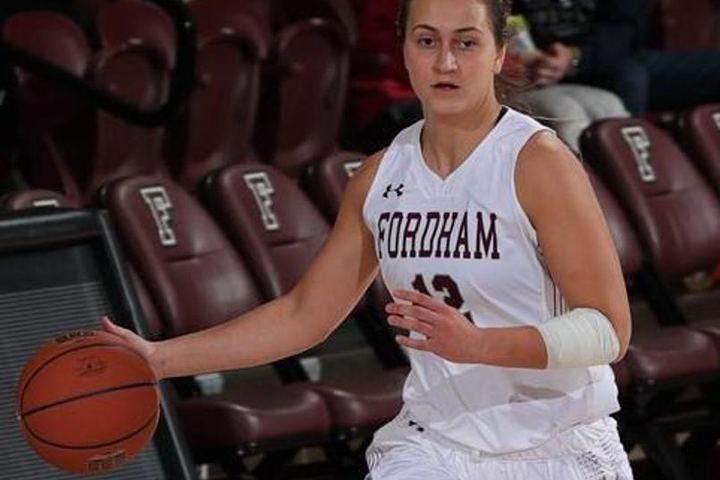
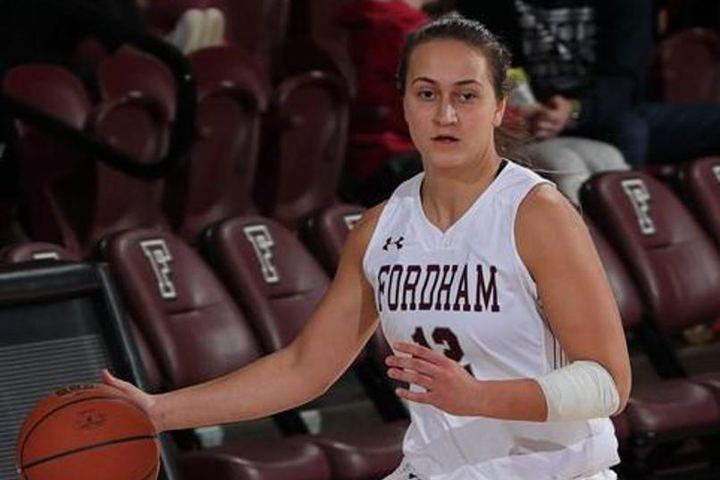
Act on Dan's critique: crops, pills, band joins, one basketball header
Six items, all from looking at the pages rather than the metrics.

Five clipped photographs re-cut. The four scholarship recipients and Edona all
came from square or portrait originals forced into a 720x480 landscape card,
which throws away half the height, so no crop bias could hold a head and a body.
The recipients are now 4:5 and capped at 420px so they sit beside the text
instead of dominating it.

Edona took two attempts and the first made it worse. Impact's story cards carry
an inline aspect-ratio:3/2, which beats any stylesheet rule, so pointing her at a
4:5 file left a landscape frame centre-cropping a standing figure and losing her
head entirely. Her three neighbours are 3:2, so a portrait would leave one odd
column. Sylwia is the control: same portrait source, same frame, renders
correctly, and the only difference was crop bias. Edona moves from 0.20 to 0.08
and now matches her.

The tutoring blue-to-white cutoff was the navy tutor panel still being a rounded
card butting against a full-bleed band. It becomes a band, so pale blue runs
straight into navy edge to edge. The gap beneath it is 136px rather than the
site's usual 88: coming off a solid band, 88 reads as a collision.

All six eyebrow pills removed, words included. Four repeated the logo already in
the header. Sponsorship and Donate lose a line of context each, which Dan
confirmed after seeing what went.

Our Impact had two basketball headers back to back, both with the eyebrow "Peace
[…]

diff --git a/tutoring.html b/tutoring.html
@@ -101,7 +101,9 @@ h1,h2,h3,p{margin:0}
 .tl-step:last-child .tl-label{padding-bottom:0}
 
 /* safety panel, navy object */
-.safety{background:var(--navy);border-radius:16px;padding:48px;display:flex;flex-direction:column;gap:24px}
+.nightband{background:var(--navy);color:var(--white);margin-bottom:136px}
+.nightband-in{width:100%;max-width:var(--maxw);margin:0 auto;padding:clamp(64px,8vw,104px) var(--pad)}
+.safety{display:flex;flex-direction:column;gap:24px}
 .safety .h2{color:var(--white)}
 .safety-body{font-size:18px;line-height:1.62;color:var(--white);max-width:74ch}
 .checklist{display:grid;grid-template-columns:repeat(4,minmax(0,1fr));gap:20px}
@@ -497,8 +499,8 @@ border:1px solid var(--line);border-radius:999px;padding:9px 15px}
 .p-chorus-scholarship-body{display:flex;flex-direction:column;gap:18px;font-size:clamp(.9375rem,1.4vw,1.05rem);line-height:1.68;max-width:65ch;text-wrap:pretty}
 .p-chorus-recipient-line{font-weight:700;color:var(--ink)}
 .p-chorus-recipient-set{display:grid;grid-template-columns:repeat(2,minmax(0,1fr));gap:24px;margin-top:12px;min-width:0}
-.p-chorus-recipient{min-width:0;max-width:720px;margin:0;background:transparent;border:0;border-radius:0;box-shadow:none}
-.p-chorus-recipient>.p-img{width:100%;height:auto;aspect-ratio:3/2;object-fit:cover;background:transparent;border:0;border-radius:0;box-shadow:none}
+.p-chorus-recipient{min-width:0;max-width:420px;margin:0;background:transparent;border:0;border-radius:0;box-shadow:none}
+.p-chorus-recipient>.p-img{width:100%;height:auto;aspect-ratio:4/5;object-fit:cover;background:transparent;border:0;border-radius:0;box-shadow:none}
 .p-chorus-recipient figcaption{display:flex;flex-direction:column;gap:4px;margin-top:14px;background:transparent;border:0;box-shadow:none;font-size:.75rem}
 .p-chorus-recipient figcaption strong{font-size:clamp(.9375rem,1.4vw,1.05rem);color:var(--ink)}
 .p-chorus-recipient figcaption span,.p-chorus-testimony figcaption,.p-chorus-recipient-quote-credit{font-size:.75rem;line-height:1.5;letter-spacing:.075em;text-transform:uppercase;color:var(--slate)}
@@ -629,8 +631,8 @@ border:1px solid var(--line);border-radius:999px;padding:9px 15px}
     </div>
   </section>
 
-  <section class="wrap section" id="tutors">
-    <div class="safety">
+  <section class="nightband" id="tutors">
+    <div class="nightband-in safety">
       <div class="p-accent">
       <div class="p-accent-copy">
       <h2 class="h2">Who will be working with my child</h2>
@@ -673,11 +675,11 @@ border:1px solid var(--line);border-radius:999px;padding:9px 15px}
         </div>
         <div class="p-chorus-recipient-set">
           <figure class="p-chorus-recipient">
-            <img class="p-img" src="img/p13-annabella-card.jpg" width="720" height="480" loading="lazy" decoding="async" alt="Annabella in a school uniform, speaking to camera">
+            <img class="p-img" src="img/p13-annabella-pair.jpg" width="640" height="800" loading="lazy" decoding="async" alt="Annabella in a school uniform, speaking to camera">
             <figcaption><strong>Annabella</strong><span>5th grade. Stamford Rotary Trust Scholarship, 2025.</span></figcaption>
           </figure>
           <figure class="p-chorus-recipient">
-            <img class="p-img" src="img/p83-mia-lopez-certificate-card.jpg" width="720" height="480" loading="lazy" decoding="async" alt="Mia holding her Stark Elementary School certificate and a bouquet of flowers">
+            <img class="p-img" src="img/p83-mia-lopez-certificate-pair.jpg" width="640" height="800" loading="lazy" decoding="async" alt="Mia holding her Stark Elementary School certificate and a bouquet of flowers">
             <figcaption><strong>Mia</strong><span>6th grade. Stamford Rotary Trust Scholarship, 2025.</span></figcaption>
           </figure>
         </div>
@@ -691,13 +693,13 @@ border:1px solid var(--line);border-radius:999px;padding:9px 15px}
         </div>
         <div class="p-chorus-recipient-set">
           <figure class="p-chorus-recipient">
-            <img class="p-img" src="img/p14-anthony-lopez-card.jpg" width="720" height="480" loading="lazy" decoding="async" alt="Anthony Lopez standing on rocks beside a waterfall">
+            <img class="p-img" src="img/p14-anthony-lopez-pair.jpg" width="640" height="800" loading="lazy" decoding="async" alt="Anthony Lopez standing on rocks beside a waterfall">
             <figcaption><strong>Anthony Lopez</strong><span>Bill Susetka Memorial Scholarship, 2025 to 2026.</span></figcaption>
             <blockquote class="p-chorus-recipient-quote">My name is Anthony Lopez and I’m 13 years old. I’m grateful for Beyond Limits because the sessions help me with tests, homework, and projects. I’m also grateful for my mom because she sacrifices her time to take me to Beyond Limits. Thank you</blockquote>
             <cite class="p-chorus-recipient-quote-credit">Anthony Lopez</cite>
           </figure>
           <figure class="p-chorus-recipient">
-            <img class="p-img" src="img/p31-danna-rivas-card.jpg" width="720" height="480" loading="lazy" decoding="async" alt="Danna Rivas seated, smiling at the camera">
+            <img class="p-img" src="img/p31-danna-rivas-pair.jpg" width="640" height="800" loading="lazy" decoding="async" alt="Danna Rivas seated, smiling at the camera">
             <figcaption><strong>Danna Rivas</strong><span>Bill Susetka Memorial Scholarship, 2025 to 2026.</span></figcaption>
             <blockquote class="p-chorus-recipient-quote">Hello, my name is Danna Rivas, and I like going to [Beyond Limits] because I like the tutors that I get, and it is fun learning there. And when I’m out of school, I like to do Gymnastics! Thank you!</blockquote>
             <cite class="p-chorus-recipient-quote-credit">Danna Rivas</cite>

diff --git a/impact.html b/impact.html
@@ -69,7 +69,6 @@ h1,h2,h3,p{margin:0}
 /* hero */
 .hero{display:grid;grid-template-columns:.86fr 1.14fr;gap:clamp(40px,5vw,72px);align-items:center;padding:72px var(--pad) 80px}
 .hero-copy{display:flex;flex-direction:column;gap:24px;min-width:0}
-.eyebrow-pill{display:inline-flex;align-items:center;height:32px;padding:0 16px;border-radius:999px;background:var(--white);border:1px solid var(--line);font-size:11px;font-weight:600;letter-spacing:.1em;text-transform:uppercase;color:var(--slate);width:fit-content}
 .sup{font-size:19px;line-height:1.55;color:var(--slate);max-width:44ch}
 .hero-photo{height:470px;overflow:hidden;background:transparent}
 .hero-photo img{width:100%;height:100%;object-fit:cover}
@@ -472,8 +471,8 @@ border:1px solid var(--line);border-radius:999px;padding:9px 15px}
 .p-chorus-scholarship-body{display:flex;flex-direction:column;gap:18px;font-size:clamp(.9375rem,1.4vw,1.05rem);line-height:1.68;max-width:65ch;text-wrap:pretty}
 .p-chorus-recipient-line{font-weight:700;color:var(--ink)}
 .p-chorus-recipient-set{display:grid;grid-template-columns:repeat(2,minmax(0,1fr));gap:24px;margin-top:12px;min-width:0}
-.p-chorus-recipient{min-width:0;max-width:720px;margin:0;background:transparent;border:0;border-radius:0;box-shadow:none}
-.p-chorus-recipient>.p-img{width:100%;height:auto;aspect-ratio:3/2;object-fit:cover;background:transparent;border:0;border-radius:0;box-shadow:none}
+.p-chorus-recipient{min-width:0;max-width:420px;margin:0;background:transparent;border:0;border-radius:0;box-shadow:none}
+.p-chorus-recipient>.p-img{width:100%;height:auto;aspect-ratio:4/5;object-fit:cover;background:transparent;border:0;border-radius:0;box-shadow:none}
 .p-chorus-recipient figcaption{display:flex;flex-direction:column;gap:4px;margin-top:14px;background:transparent;border:0;box-shadow:none;font-size:.75rem}
 .p-chorus-recipient figcaption strong{font-size:clamp(.9375rem,1.4vw,1.05rem);color:var(--ink)}
 .p-chorus-recipient figcaption span,.p-chorus-testimony figcaption,.p-chorus-recipient-quote-credit{font-size:.75rem;line-height:1.5;letter-spacing:.075em;text-transform:uppercase;color:var(--slate)}
@@ -575,7 +574,6 @@ border:1px solid var(--line);border-radius:999px;padding:9px 15px}
 
   <section class="wrap hero">
     <div class="hero-copy">
-      <span class="eyebrow-pill">Stamford Peace Youth Foundation</span>
       <h1 class="d1">Our Impact</h1>
       <p class="sup">Beyond Limits strikes at the heart of the opportunity gap which confronts our society’s lower-income families.</p>
     </div>
@@ -629,16 +627,9 @@ border:1px solid var(--line);border-radius:999px;padding:9px 15px}
     </div>
   </section>
 
-  <section class="p-band">
-    <img class="p-img" src="img/p63-team-huddle-court-band.jpg" width="1600" height="640" loading="lazy" decoding="async" alt="A coach and a circle of young players in pinnies on the court">
-    <div class="p-band-in">
-      <p class="micro">Peace Basketball</p>
-      <h2 class="h2">Basketball is a privilege, not a right.</h2>
-    </div>
-  </section>
-
-  <section class="nightband" id="peace-basketball">
-    <div class="nightband-in bandhead">
+    <section class="p-band" id="peace-basketball">
+    <img class="p-img" src="img/p10-hoop-group-band.jpg" width="1600" height="640" loading="lazy" decoding="async" alt="A team of young players lined up on the court">
+    <div class="p-band-in bandhead">
       <span class="micro micro-gold" style="font-size:13px;font-weight:600;letter-spacing:.08em;text-transform:uppercase">Peace Basketball</span>
       <h2 class="h2" style="margin-top:10px">What that principle buys, on the court and off it.</h2>
     </div>

diff --git a/donate.html b/donate.html
@@ -87,7 +87,6 @@ h1,h2,h3,p{margin:0}
 
 /* page sections */
 .section{padding:0 var(--pad) 88px}
-.eyebrow-pill{display:inline-flex;align-items:center;height:32px;padding:0 16px;border-radius:999px;background:var(--white);border:1px solid var(--line);font-size:11px;font-weight:600;letter-spacing:.1em;text-transform:uppercase;color:var(--slate);width:fit-content}
 .sup{font-size:19px;line-height:1.55;color:var(--slate);max-width:44ch}
 .give-note{font-size:14px;line-height:1.6;color:#DCE4EF;max-width:46ch;margin-top:14px}
 .give-hero{max-width:var(--maxw);margin:0 auto;padding:88px var(--pad) 72px;display:flex;flex-direction:column;align-items:center;gap:20px;text-align:center}
@@ -425,8 +424,8 @@ border:1px solid var(--line);border-radius:999px;padding:9px 15px}
 .p-chorus-scholarship-body{display:flex;flex-direction:column;gap:18px;font-size:clamp(.9375rem,1.4vw,1.05rem);line-height:1.68;max-width:65ch;text-wrap:pretty}
 .p-chorus-recipient-line{font-weight:700;color:var(--ink)}
 .p-chorus-recipient-set{display:grid;grid-template-columns:repeat(2,minmax(0,1fr));gap:24px;margin-top:12px;min-width:0}
-.p-chorus-recipient{min-width:0;max-width:720px;margin:0;background:transparent;border:0;border-radius:0;box-shadow:none}
-.p-chorus-recipient>.p-img{width:100%;height:auto;aspect-ratio:3/2;object-fit:cover;background:transparent;border:0;border-radius:0;box-shadow:none}
+.p-chorus-recipient{min-width:0;max-width:420px;margin:0;background:transparent;border:0;border-radius:0;box-shadow:none}
+.p-chorus-recipient>.p-img{width:100%;height:auto;aspect-ratio:4/5;object-fit:cover;background:transparent;border:0;border-radius:0;box-shadow:none}
 .p-chorus-recipient figcaption{display:flex;flex-direction:column;gap:4px;margin-top:14px;background:transparent;border:0;box-shadow:none;font-size:.75rem}
 .p-chorus-recipient figcaption strong{font-size:clamp(.9375rem,1.4vw,1.05rem);color:var(--ink)}
 .p-chorus-recipient figcaption span,.p-chorus-testimony figcaption,.p-chorus-recipient-quote-credit{font-size:.75rem;line-height:1.5;letter-spacing:.075em;text-transform:uppercase;color:var(--slate)}
@@ -529,7 +528,6 @@ border:1px solid var(--line);border-radius:999px;padding:9px 15px}
   <section class="p-band p-band-center">
     <img class="p-img" src="img/p85-summer-group-arboretum-band.jpg" width="1600" height="640" loading="lazy" decoding="async" alt="The summer group photographed together on the lawn at Bartlett Arboretum">
     <div class="give-hero" style="position:relative;z-index:2">
-    <span class="eyebrow-pill" style="background:rgba(255,255,255,.14);color:#fff;border-color:rgba(255,255,255,.34)">Give to Beyond Limits</span>
     <h1 class="d1" style="max-width:20ch">Your gift keeps a student in tutoring.</h1>
     <p class="sup">One on one tutoring for students in lower Fairfield County, funded gift by gift.</p>
     <a class="btn btn-primary btn-lg" href="https://peaceyouthct.kindful.com" target="_blank" rel="noopener" style="margin-top:8px">Give now</a>

diff --git a/sponsorship.html b/sponsorship.html
@@ -69,7 +69,6 @@ h1,h2,h3,p{margin:0}
 /* hero */
 .hero{display:grid;grid-template-columns:1.05fr .95fr;gap:56px;align-items:center;padding:72px var(--pad) 88px}
 .hero-copy{display:flex;flex-direction:column;gap:22px;min-width:0}
-.eyebrow-pill{display:inline-flex;align-items:center;height:32px;padding:0 16px;border-radius:999px;background:var(--white);border:1px solid var(--line);font-size:11px;font-weight:600;letter-spacing:.1em;text-transform:uppercase;color:var(--slate);width:fit-content}
 .sup{font-size:19px;line-height:1.55;color:var(--slate);max-width:48ch}
 .hero-photo{height:520px;overflow:hidden;background:transparent}
 .hero-photo img{width:100%;height:100%;object-fit:cover}
@@ -432,8 +431,8 @@ border:1px solid var(--line);border-radius:999px;padding:9px 15px}
 .p-chorus-scholarship-body{display:flex;flex-direction:column;gap:18px;font-size:clamp(.9375rem,1.4vw,1.05rem);line-height:1.68;max-width:65ch;text-wrap:pretty}
 .p-chorus-recipient-line{font-weight:700;color:var(--ink)}
 .p-chorus-recipient-set{display:grid;grid-template-columns:repeat(2,minmax(0,1fr));gap:24px;margin-top:12px;min-width:0}
-.p-chorus-recipient{min-width:0;max-width:720px;margin:0;background:transparent;border:0;border-radius:0;box-shadow:none}
-.p-chorus-recipient>.p-img{width:100%;height:auto;aspect-ratio:3/2;object-fit:cover;background:transparent;border:0;border-radius:0;box-shadow:none}
+.p-chorus-recipient{min-width:0;max-width:420px;margin:0;background:transparent;border:0;border-radius:0;box-shadow:none}
+.p-chorus-recipient>.p-img{width:100%;height:auto;aspect-ratio:4/5;object-fit:cover;background:transparent;border:0;border-radius:0;box-shadow:none}
 .p-chorus-recipient figcaption{display:flex;flex-direction:column;gap:4px;margin-top:14px;background:transparent;border:0;box-shadow:none;font-size:.75rem}
 .p-chorus-recipient figcaption strong{font-size:clamp(.9375rem,1.4vw,1.05rem);color:var(--ink)}
 .p-chorus-recipient figcaption span,.p-chorus-testimony figcaption,.p-chorus-recipient-quote-credit{font-size:.75rem;line-height:1.5;letter-spacing:.075em;text-transform:uppercase;color:var(--slate)}
@@ -535,7 +534,6 @@ border:1px solid var(--line);border-radius:999px;padding:9px 15px}
 
   <section class="wrap hero" data-screen-label="Hero">
     <div class="hero-copy">
-      <span class="eyebrow-pill">2025–2026 sponsorship</span>
       <h1 class="d1">Put your name where a student can see it.</h1>
       <p class="sup">Beyond Limits supports over 250 students each year across lower Fairfield County. Sponsorship connects your business to those students, their families and the schools and community partners we work with, from $500 to naming rights on our tutoring center.</p>
       <div class="hero-cta">

diff --git a/basketball.html b/basketball.html
@@ -69,7 +69,6 @@ h1,h2,h3,p{margin:0}
 /* hero */
 .hero{display:grid;grid-template-columns:1.05fr .95fr;gap:56px;align-items:center;padding:80px var(--pad) 88px}
 .hero-copy{display:flex;flex-direction:column;gap:24px;min-width:0}
-.eyebrow-pill{display:inline-flex;align-items:center;height:32px;padding:0 16px;border-radius:999px;background:var(--white);border:1px solid var(--line);font-size:11px;font-weight:600;letter-spacing:.1em;text-transform:uppercase;color:var(--slate);width:fit-content}
 .sup{font-size:19px;line-height:1.55;color:var(--slate);max-width:44ch}
 .hero-photo{height:560px;overflow:hidden;background:transparent}
 .hero-photo img{width:100%;height:100%;object-fit:cover}
@@ -486,8 +485,8 @@ border:1px solid var(--line);border-radius:999px;padding:9px 15px}
 .p-chorus-scholarship-body{display:flex;flex-direction:column;gap:18px;font-size:clamp(.9375rem,1.4vw,1.05rem);line-height:1.68;max-width:65ch;text-wrap:pretty}
 .p-chorus-recipient-line{font-weight:700;color:var(--ink)}
 .p-chorus-recipient-set{display:grid;grid-template-columns:repeat(2,minmax(0,1fr));gap:24px;margin-top:12px;min-width:0}
-.p-chorus-recipient{min-width:0;max-width:720px;margin:0;background:transparent;border:0;border-radius:0;box-shadow:none}
-.p-chorus-recipient>.p-img{width:100%;height:auto;aspect-ratio:3/2;object-fit:cover;background:transparent;border:0;border-radius:0;box-shadow:none}
+.p-chorus-recipient{min-width:0;max-width:420px;margin:0;background:transparent;border:0;border-radius:0;box-shadow:none}
+.p-chorus-recipient>.p-img{width:100%;height:auto;aspect-ratio:4/5;object-fit:cover;background:transparent;border:0;border-radius:0;box-shadow:none}
 .p-chorus-recipient figcaption{display:flex;flex-direction:column;gap:4px;margin-top:14px;background:transparent;border:0;box-shadow:none;font-size:.75rem}
 .p-chorus-recipient figcaption strong{font-size:clamp(.9375rem,1.4vw,1.05rem);color:var(--ink)}
 .p-chorus-recipient figcaption span,.p-chorus-testimony figcaption,.p-chorus-recipient-quote-credit{font-size:.75rem;line-height:1.5;letter-spacing:.075em;text-transform:uppercase;color:var(--slate)}
@@ -610,7 +609,6 @@ border:1px solid var(--line);border-radius:999px;padding:9px 15px}
 
   <section class="wrap hero">
     <div class="hero-copy">
-      <span class="eyebrow-pill">Stamford Peace Youth Foundation</span>
       <h1 class="d1">Peace Basketball</h1>
       <p class="sup">Three leagues, from a first season of developmental basketball to a nationally competitive travel program. Beyond Limits Academics is the Foundation’s tutoring program and runs alongside them.</p>
     </div>

diff --git a/about.html b/about.html
@@ -69,7 +69,6 @@ h1,h2,h3,p{margin:0}
 /* hero */
 .hero{display:grid;grid-template-columns:1.05fr .95fr;gap:56px;align-items:center;padding:80px var(--pad) 88px}
 .hero-copy{display:flex;flex-direction:column;gap:24px;min-width:0}
-.eyebrow-pill{display:inline-flex;align-items:center;height:32px;padding:0 16px;border-radius:999px;background:var(--white);border:1px solid var(--line);font-size:11px;font-weight:600;letter-spacing:.1em;text-transform:uppercase;color:var(--slate);width:fit-content}
 .sup{font-size:19px;line-height:1.55;color:var(--slate);max-width:44ch}
 .hero-photo{height:560px;overflow:hidden;background:transparent}
 .hero-photo img{width:100%;height:100%;object-fit:cover}
@@ -460,8 +459,8 @@ border:1px solid var(--line);border-radius:999px;padding:9px 15px}
 .p-chorus-scholarship-body{display:flex;flex-direction:column;gap:18px;font-size:clamp(.9375rem,1.4vw,1.05rem);line-height:1.68;max-width:65ch;text-wrap:pretty}
 .p-chorus-recipient-line{font-weight:700;color:var(--ink)}
 .p-chorus-recipient-set{display:grid;grid-template-columns:repeat(2,minmax(0,1fr));gap:24px;margin-top:12px;min-width:0}
-.p-chorus-recipient{min-width:0;max-width:720px;margin:0;background:transparent;border:0;border-radius:0;box-shadow:none}
-.p-chorus-recipient>.p-img{width:100%;height:auto;aspect-ratio:3/2;object-fit:cover;background:transparent;border:0;border-radius:0;box-shadow:none}
+.p-chorus-recipient{min-width:0;max-width:420px;margin:0;background:transparent;border:0;border-radius:0;box-shadow:none}
+.p-chorus-recipient>.p-img{width:100%;height:auto;aspect-ratio:4/5;object-fit:cover;background:transparent;border:0;border-radius:0;box-shadow:none}
 .p-chorus-recipient figcaption{display:flex;flex-direction:column;gap:4px;margin-top:14px;background:transparent;border:0;box-shadow:none;font-size:.75rem}
 .p-chorus-recipient figcaption strong{font-size:clamp(.9375rem,1.4vw,1.05rem);color:var(--ink)}
 .p-chorus-recipient figcaption span,.p-chorus-testimony figcaption,.p-chorus-recipient-quote-credit{font-size:.75rem;line-height:1.5;letter-spacing:.075em;text-transform:uppercase;color:var(--slate)}
@@ -563,7 +562,6 @@ border:1px solid var(--line);border-radius:999px;padding:9px 15px}
 
   <section class="wrap hero">
     <div class="hero-copy">
-      <span class="eyebrow-pill">A program of the Stamford Peace Youth Foundation</span>
       <h1 class="d1">The people behind Beyond Limits.</h1>
       <p class="sup">Beyond Limits Academics is how the Stamford Peace Youth Foundation shows up for students in lower Fairfield County, one relationship at a time.</p>
     </div>

diff --git a/beyond-limits.html b/beyond-limits.html
@@ -67,7 +67,6 @@ h1,h2,h3,h4,p{margin:0}
 /* hero */
 .hero{display:grid;grid-template-columns:1.05fr .95fr;gap:56px;align-items:center;padding:72px var(--pad) 88px}
 .hero-copy{display:flex;flex-direction:column;gap:22px;min-width:0}
-.eyebrow-pill{display:inline-flex;align-items:center;height:32px;padding:0 16px;border-radius:999px;background:var(--white);border:1px solid var(--line);font-size:11px;font-weight:600;letter-spacing:.1em;text-transform:uppercase;color:var(--slate);width:fit-content}
 .sup{font-size:19px;line-height:1.55;color:var(--slate);max-width:46ch}
 .hero-photo{height:520px;overflow:hidden;background:transparent}
 .hero-photo img{width:100%;height:100%;object-fit:cover}
@@ -461,8 +460,8 @@ border:1px solid var(--line);border-radius:999px;padding:9px 15px}
 .p-chorus-scholarship-body{display:flex;flex-direction:column;gap:18px;font-size:clamp(.9375rem,1.4vw,1.05rem);line-height:1.68;max-width:65ch;text-wrap:pretty}
 .p-chorus-recipient-line{font-weight:700;color:var(--ink)}
 .p-chorus-recipient-set{display:grid;grid-template-columns:repeat(2,minmax(0,1fr));gap:24px;margin-top:12px;min-width:0}
-.p-chorus-recipient{min-width:0;max-width:720px;margin:0;background:transparent;border:0;border-radius:0;box-shadow:none}
-.p-chorus-recipient>.p-img{width:100%;height:auto;aspect-ratio:3/2;object-fit:cover;background:transparent;border:0;border-radius:0;box-shadow:none}
+.p-chorus-recipient{min-width:0;max-width:420px;margin:0;background:transparent;border:0;border-radius:0;box-shadow:none}
+.p-chorus-recipient>.p-img{width:100%;height:auto;aspect-ratio:4/5;object-fit:cover;background:transparent;border:0;border-radius:0;box-shadow:none}
 .p-chorus-recipient figcaption{display:flex;flex-direction:column;gap:4px;margin-top:14px;background:transparent;border:0;box-shadow:none;font-size:.75rem}
 .p-chorus-recipient figcaption strong{font-size:clamp(.9375rem,1.4vw,1.05rem);color:var(--ink)}
 .p-chorus-recipient figcaption span,.p-chorus-testimony figcaption,.p-chorus-recipient-quote-credit{font-size:.75rem;line-height:1.5;letter-spacing:.075em;text-transform:uppercase;color:var(--slate)}
@@ -576,7 +575,6 @@ border:1px solid var(--line);border-radius:999px;padding:9px 15px}
 
   <section class="wrap hero">
     <div class="hero-copy">
-      <span class="eyebrow-pill">A program of the Stamford Peace Youth Foundation</span>
       <h1 class="d1">Beyond Limits Academics</h1>
       <p class="sup">Highly subsidized one on one tutoring and informal mentoring for students in grades 4 to 10, in lower Fairfield County.</p>
       <div class="hero-cta">

diff --git a/index.html b/index.html
@@ -68,7 +68,6 @@ h1,h2,h3,p{margin:0}
 /* hero */
 .hero{display:grid;grid-template-columns:1.05fr .95fr;gap:56px;align-items:center;padding:80px var(--pad) 88px}
 .hero-copy{display:flex;flex-direction:column;gap:24px;min-width:0}
-.eyebrow-pill{display:inline-flex;align-items:center;height:32px;padding:0 16px;border-radius:999px;background:var(--white);border:1px solid var(--line);font-size:11px;font-weight:600;letter-spacing:.1em;text-transform:uppercase;color:var(--slate);width:fit-content}
 .sup{font-size:19px;line-height:1.55;color:var(--slate);max-width:44ch}
 .factline{display:flex;align-items:center;gap:10px;flex-wrap:wrap;font-size:13px;font-weight:500;color:var(--slate);margin-top:4px}
 .hero-photo{height:560px;overflow:hidden;background:transparent}
@@ -522,8 +521,8 @@ border:1px solid var(--line);border-radius:999px;padding:9px 15px}
 .p-chorus-scholarship-body{display:flex;flex-direction:column;gap:18px;font-size:clamp(.9375rem,1.4vw,1.05rem);line-height:1.68;max-width:65ch;text-wrap:pretty}
 .p-chorus-recipient-line{font-weight:700;color:var(--ink)}
 .p-chorus-recipient-set{display:grid;grid-template-columns:repeat(2,minmax(0,1fr));gap:24px;margin-top:12px;min-width:0}
-.p-chorus-recipient{min-width:0;max-width:720px;margin:0;background:transparent;border:0;border-radius:0;box-shadow:none}
-.p-chorus-recipient>.p-img{width:100%;height:auto;aspect-ratio:3/2;object-fit:cover;background:transparent;border:0;border-radius:0;box-shadow:none}
+.p-chorus-recipient{min-width:0;max-width:420px;margin:0;background:transparent;border:0;border-radius:0;box-shadow:none}
+.p-chorus-recipient>.p-img{width:100%;height:auto;aspect-ratio:4/5;object-fit:cover;background:transparent;border:0;border-radius:0;box-shadow:none}
 .p-chorus-recipient figcaption{display:flex;flex-direction:column;gap:4px;margin-top:14px;background:transparent;border:0;box-shadow:none;font-size:.75rem}
 .p-chorus-recipient figcaption strong{font-size:clamp(.9375rem,1.4vw,1.05rem);color:var(--ink)}
 .p-chorus-recipient figcaption span,.p-chorus-testimony figcaption,.p-chorus-recipient-quote-credit{font-size:.75rem;line-height:1.5;letter-spacing:.075em;text-transform:uppercase;color:var(--slate)}

diff --git a/start.html b/start.html
@@ -69,7 +69,6 @@ h1,h2,h3,p{margin:0}
 /* hero */
 .hero{display:grid;grid-template-columns:1.05fr .95fr;gap:56px;align-items:center;padding:80px var(--pad) 88px}
 .hero-copy{display:flex;flex-direction:column;gap:24px;min-width:0}
-.eyebrow-pill{display:inline-flex;align-items:center;height:32px;padding:0 16px;border-radius:999px;background:var(--white);border:1px solid var(--line);font-size:11px;font-weight:600;letter-spacing:.1em;text-transform:uppercase;color:var(--slate);width:fit-content}
 .sup{font-size:19px;line-height:1.55;color:var(--slate);max-width:44ch}
 .hero-photo{height:560px;overflow:hidden;background:transparent}
 .hero-photo img{width:100%;height:100%;object-fit:cover}
@@ -466,8 +465,8 @@ border:1px solid var(--line);border-radius:999px;padding:9px 15px}
 .p-chorus-scholarship-body{display:flex;flex-direction:column;gap:18px;font-size:clamp(.9375rem,1.4vw,1.05rem);line-height:1.68;max-width:65ch;text-wrap:pretty}
 .p-chorus-recipient-line{font-weight:700;color:var(--ink)}
 .p-chorus-recipient-set{display:grid;grid-template-columns:repeat(2,minmax(0,1fr));gap:24px;margin-top:12px;min-width:0}
-.p-chorus-recipient{min-width:0;max-width:720px;margin:0;background:transparent;border:0;border-radius:0;box-shadow:none}
-.p-chorus-recipient>.p-img{width:100%;height:auto;aspect-ratio:3/2;object-fit:cover;background:transparent;border:0;border-radius:0;box-shadow:none}
+.p-chorus-recipient{min-width:0;max-width:420px;margin:0;background:transparent;border:0;border-radius:0;box-shadow:none}
+.p-chorus-recipient>.p-img{width:100%;height:auto;aspect-ratio:4/5;object-fit:cover;background:transparent;border:0;border-radius:0;box-shadow:none}
 .p-chorus-recipient figcaption{display:flex;flex-direction:column;gap:4px;margin-top:14px;background:transparent;border:0;box-shadow:none;font-size:.75rem}
 .p-chorus-recipient figcaption strong{font-size:clamp(.9375rem,1.4vw,1.05rem);color:var(--ink)}
 .p-chorus-recipient figcaption span,.p-chorus-testimony figcaption,.p-chorus-recipient-quote-credit{font-size:.75rem;line-height:1.5;letter-spacing:.075em;text-transform:uppercase;color:var(--slate)}

diff --git a/patterns.css b/patterns.css
@@ -272,8 +272,8 @@ border:1px solid var(--line);border-radius:999px;padding:9px 15px}
 .p-chorus-scholarship-body{display:flex;flex-direction:column;gap:18px;font-size:clamp(.9375rem,1.4vw,1.05rem);line-height:1.68;max-width:65ch;text-wrap:pretty}
 .p-chorus-recipient-line{font-weight:700;color:var(--ink)}
 .p-chorus-recipient-set{display:grid;grid-template-columns:repeat(2,minmax(0,1fr));gap:24px;margin-top:12px;min-width:0}
-.p-chorus-recipient{min-width:0;max-width:720px;margin:0;background:transparent;border:0;border-radius:0;box-shadow:none}
-.p-chorus-recipient>.p-img{width:100%;height:auto;aspect-ratio:3/2;object-fit:cover;background:transparent;border:0;border-radius:0;box-shadow:none}
+.p-chorus-recipient{min-width:0;max-width:420px;margin:0;background:transparent;border:0;border-radius:0;box-shadow:none}
+.p-chorus-recipient>.p-img{width:100%;height:auto;aspect-ratio:4/5;object-fit:cover;background:transparent;border:0;border-radius:0;box-shadow:none}
 .p-chorus-recipient figcaption{display:flex;flex-direction:column;gap:4px;margin-top:14px;background:transparent;border:0;box-shadow:none;font-size:.75rem}
 .p-chorus-recipient figcaption strong{font-size:clamp(.9375rem,1.4vw,1.05rem);color:var(--ink)}
 .p-chorus-recipient figcaption span,.p-chorus-testimony figcaption,.p-chorus-recipient-quote-credit{font-size:.75rem;line-height:1.5;letter-spacing:.075em;text-transform:uppercase;color:var(--slate)}
